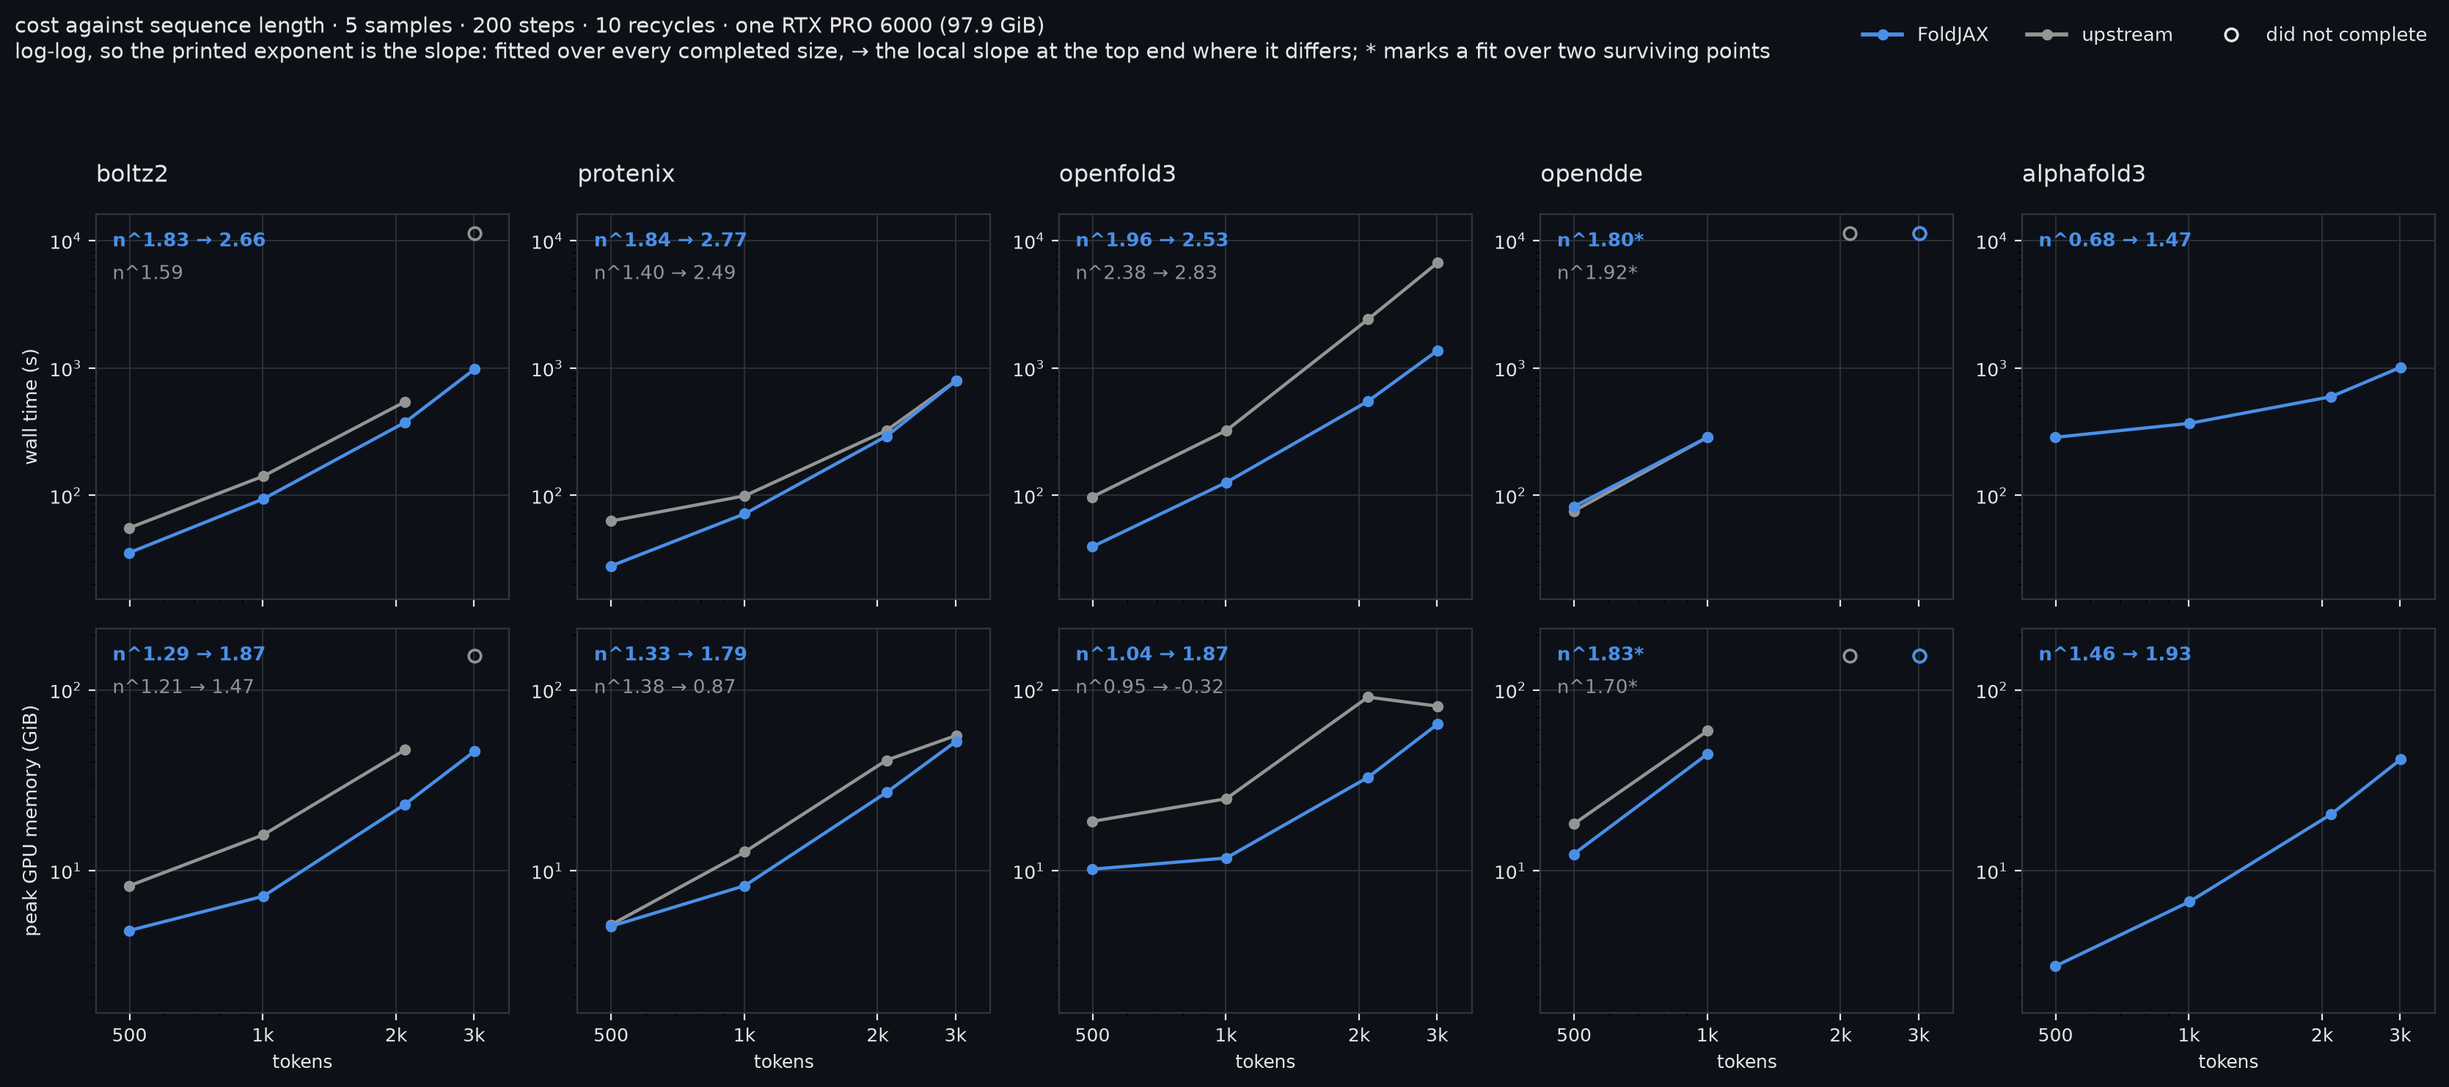
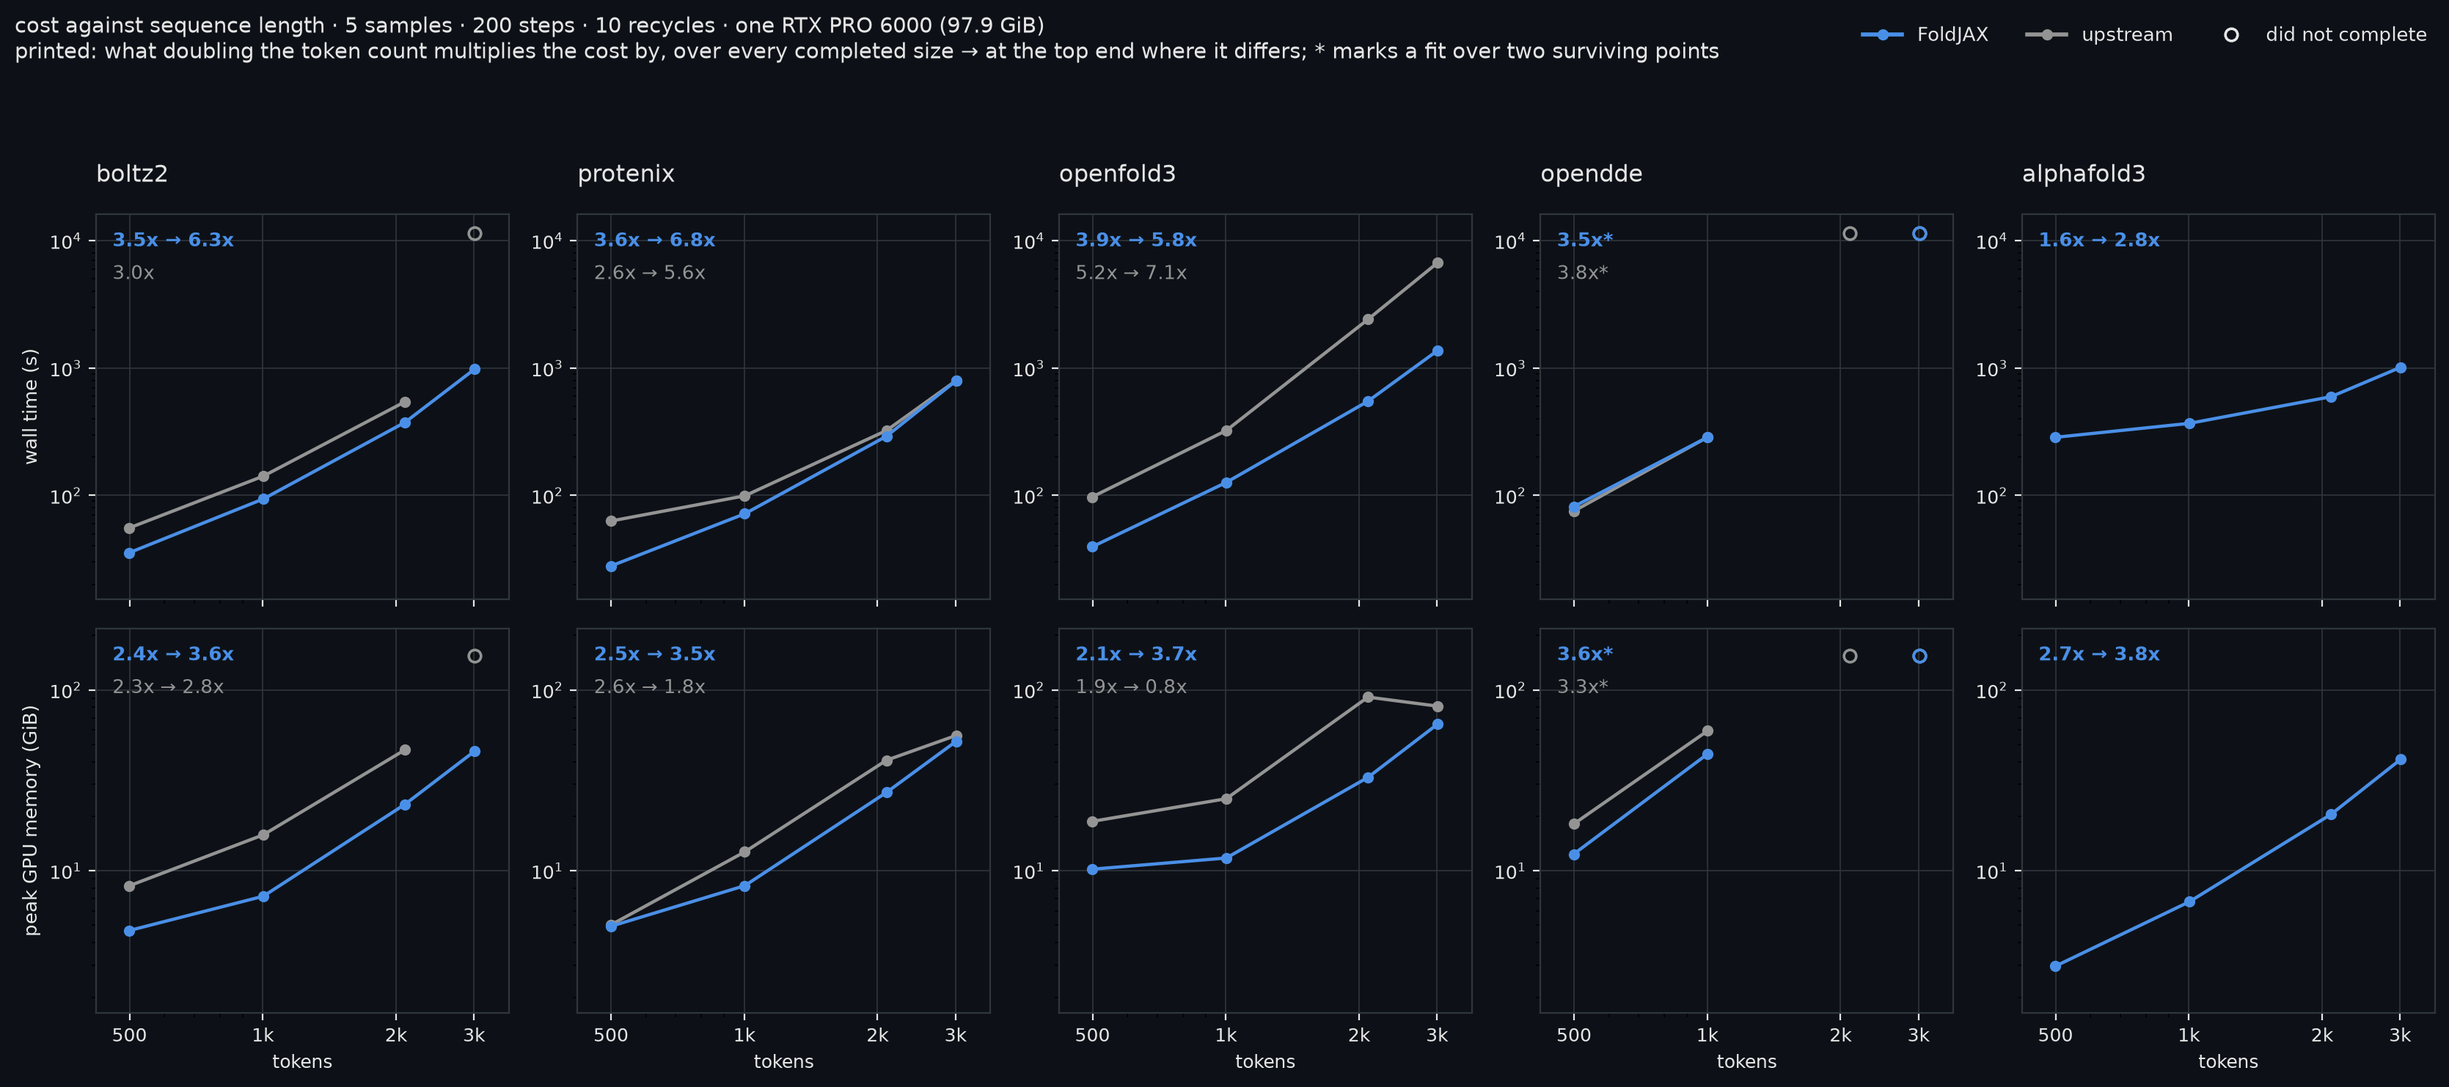
docs: the four upstreams on one axes, and cost per doubling
Two changes, both about being read rather than decoded.

`n^1.83` is replaced everywhere by what it means: 3.5x per doubling of the
token count. Same fact, in the unit the decision is made in.

And a second figure drops the FoldJAX column to put the four upstream
implementations on one pair of axes, where the question is which reference
costs what rather than how each port compares to its own. That figure pools the
earlier 132-1,531 token sweep, which the faceted one must not: those runs
measured the same unmodified upstream repositories, so their points belong on
the same curve, while FoldJAX's own code changed between the sweeps. Starting
at 132 tokens is what makes the fixed-cost floor visible -- Protenix's upstream
is the slowest of the four below ~500 tokens and the fastest above ~1,000.

Four hues on one axes clear the colour-vision gates on the adjacent pairlist,
which is the one governing line charts, but lines cross: identity is carried
three times over as hue, marker shape, and a direct label at each line's end.
The labels also supply the relief the light surface needs where aqua falls
below 3:1. Failure markers are staggered per model, since two implementations
failing at one size drew a single marker and reported one failure where there
were two.

diff --git a/docs/make_scaling_figure.py b/docs/make_scaling_figure.py
@@ -1,4 +1,15 @@
-"""How wall time and peak memory scale with token count, per model.
+"""How wall time and peak memory scale with token count.
+
+Two figures, because they answer two questions.
+
+`scaling-*.png` is one panel per model, FoldJAX against upstream, from the
+length sweep alone. `upstream-scaling-*.png` puts the four upstream
+implementations on one pair of axes, where they can be read against each other,
+and there it is safe to pool the earlier sweep's sizes as well: those runs
+measured the *same unmodified upstream repositories*, so their points belong on
+the same curve. The FoldJAX column has no such licence -- its own code changed
+between the two sweeps -- which is why the faceted figure does not pool them.
+
 
 The benchmark table answers "what did this cost" at three sizes. The question
 this figure answers is a different one -- *how fast does the cost grow* -- and
@@ -52,28 +63,63 @@ METRICS = (
     ("peak_mib", "peak GPU memory (GiB)", 1 / 1024),
 )
 
+#: One hue per upstream implementation, assigned in the palette's fixed order
+#: and never cycled. Four series on one pair of axes clear the colour-vision
+#: gates on the adjacent pairlist, which is the one that governs line charts --
+#: but lines cross, so identity is carried three times over: hue, marker shape,
+#: and a direct label at the end of every line. That also supplies the relief
+#: the light surface needs, where aqua sits below 3:1 contrast.
+UPSTREAM_COLORS = {
+    "light": {
+        "boltz2": "#2a78d6", "protenix": "#eb6834",
+        "openfold3": "#1baf7a", "opendde": "#4a3aa7",
+    },
+    "dark": {
+        "boltz2": "#3987e5", "protenix": "#d95926",
+        "openfold3": "#199e70", "opendde": "#9085e9",
+    },
+}
+MARKERS = {"boltz2": "o", "protenix": "s", "openfold3": "^", "opendde": "D"}
 
-def load(results: Path) -> dict:
+
+def load(results: list[Path]) -> dict:
     """{model: {impl: {"ok": [(tokens, wall, peak)], "failed": [tokens]}}}."""
     grouped: dict = {}
-    for path in sorted(results.glob("*.json")):
-        body = json.loads(path.read_text())
-        model, impl = body.get("model"), body.get("impl")
-        length = body.get("length")
-        if model is None or impl is None or length is None:
-            continue
-        side = grouped.setdefault(model, {}).setdefault(
-            impl, {"ok": [], "failed": []}
-        )
-        if body.get("failed") or not body.get("wall_s") or not body.get("peak_mib"):
-            side["failed"].append(length)
-        else:
-            side["ok"].append((length, body["wall_s"], body["peak_mib"]))
+    for directory in results:
+        for path in sorted(directory.glob("*.json")):
+            body = json.loads(path.read_text())
+            model, impl = body.get("model"), body.get("impl")
+            length = body.get("length")
+            if model is None or impl is None or length is None:
+                continue
+            side = grouped.setdefault(model, {}).setdefault(
+                impl, {"ok": [], "failed": []}
+            )
+            if (
+                body.get("failed")
+                or not body.get("wall_s")
+                or not body.get("peak_mib")
+            ):
+                side["failed"].append(length)
+            else:
+                side["ok"].append((length, body["wall_s"], body["peak_mib"]))
     for entry in grouped.values():
         for side in entry.values():
-            side["ok"].sort()
-            side["failed"].sort()
+            # A size measured in both sweeps keeps the later run, and a size
+            # that failed once and completed later is not a failure.
+            side["ok"] = sorted({value[0]: value for value in side["ok"]}.values())
+            completed = {value[0] for value in side["ok"]}
+            side["failed"] = sorted(set(side["failed"]) - completed)
     return grouped
+
+
+def growth(fitted: float) -> str:
+    """The exponent as what it costs to double the input.
+
+    `n^1.83` is the same fact as "2x the tokens costs 3.6x", and only one of
+    them can be read without stopping to compute it.
+    """
+    return f"{2 ** fitted:.1f}x"
 
 
 def exponent(points: list[tuple[float, float]]) -> float | None:
@@ -187,7 +233,7 @@ def render(grouped: dict, out: Path, *, theme: str) -> Path:
                 if fitted is None:
                     continue
                 caveat = "*" if len(series) == 2 else ""
-                text = f"n^{fitted:.2f}{caveat}"
+                text = f"{growth(fitted)}{caveat}"
                 # A fit over the whole range is a bad summary of a curve that
                 # bends, and these bend for a real reason: a per-run cost that
                 # does not grow with n -- weight loading, compilation -- is a
@@ -200,7 +246,7 @@ def render(grouped: dict, out: Path, *, theme: str) -> Path:
                 # which.
                 local = exponent(series[-2:])
                 if local is not None and abs(local - fitted) > 0.25:
-                    text += f" → {local:.2f}"
+                    text += f" → {growth(local)}"
                 axis.text(
                     0.04, 0.955 - offset, text,
                     transform=axis.transAxes, color=COLORS[theme][impl],
@@ -226,8 +272,8 @@ def render(grouped: dict, out: Path, *, theme: str) -> Path:
     figure.suptitle(
         "cost against sequence length · 5 samples · 200 steps · 10 recycles · "
         "one RTX PRO 6000 (97.9 GiB)\n"
-        "log-log, so the printed exponent is the slope: fitted over every "
-        "completed size, → the local slope at the top end where it differs; "
+        "printed: what doubling the token count multiplies the cost by, over "
+        "every completed size → at the top end where it differs; "
         "* marks a fit over two surviving points",
         color=fg, fontsize=10.5, x=0.006, ha="left", va="top", y=0.995,
     )
@@ -238,14 +284,122 @@ def render(grouped: dict, out: Path, *, theme: str) -> Path:
     return out
 
 
+def render_upstream(grouped: dict, out: Path, *, theme: str) -> Path:
+    """The four upstream implementations against each other, on one axes."""
+    import matplotlib
+
+    matplotlib.use("Agg")
+    import matplotlib.pyplot as plt
+
+    style = THEMES[theme]
+    fg, bg, grid = style["fg"], style["bg"], style["grid"]
+    palette = UPSTREAM_COLORS[theme]
+    models = [name for name in MODELS if name in palette and name in grouped]
+
+    figure, axes = plt.subplots(
+        1, len(METRICS), figsize=(13.5, 5.6), dpi=200, facecolor=bg, squeeze=False
+    )
+
+    for column, (metric, ylabel, scale) in enumerate(METRICS):
+        axis = axes[0][column]
+        axis.set_facecolor(bg)
+        top = 1.0
+        for model in models:
+            side = grouped[model].get("upstream")
+            if side is None:
+                continue
+            color = palette[model]
+            index = 1 if metric == "wall_s" else 2
+            points = [(value[0], value[index] * scale) for value in side["ok"]]
+            if not points:
+                continue
+            top = max(top, max(y for _, y in points))
+            axis.plot(
+                [x for x, _ in points], [y for _, y in points], color=color,
+                linewidth=1.8, marker=MARKERS[model], markersize=5, zorder=3,
+            )
+            fitted = exponent([(value[0], value[index]) for value in side["ok"]])
+            # The label at the line's end, not a legend: four lines that cross
+            # cannot be traced back to a box in the corner, and this is also
+            # the relief the light surface needs where a hue falls below 3:1.
+            tail = f"  {model}" + (f"  {growth(fitted)}" if fitted else "")
+            axis.annotate(
+                tail, xy=points[-1], xytext=(6, 0),
+                textcoords="offset points", color=color, fontsize=9.5,
+                va="center", ha="left", zorder=5, fontweight="bold",
+            )
+        for index, model in enumerate(models):
+            side = grouped[model].get("upstream")
+            for tokens in (side or {}).get("failed", []):
+                # Staggered by model: two implementations failing at the same
+                # size would otherwise draw one marker on top of another, and
+                # the figure would report one failure where there were two.
+                axis.plot(
+                    [tokens], [top * (1.55 + 0.30 * index)], marker=MARKERS[model],
+                    markersize=6.5, markerfacecolor="none",
+                    markeredgecolor=palette[model], markeredgewidth=1.4,
+                    zorder=4, clip_on=False,
+                )
+
+        axis.set_xscale("log")
+        axis.set_yscale("log")
+        axis.set_xlim(115, 9000)
+        axis.set_ylim(None, top * 2.6)
+        axis.set_xticks([132, 250, 500, 1000, 2000, 3000])
+        axis.set_xticklabels(["132", "250", "500", "1k", "2k", "3k"])
+        axis.xaxis.set_minor_formatter(matplotlib.ticker.NullFormatter())
+        axis.set_xlabel("tokens", color=fg, fontsize=9.5)
+        axis.set_ylabel(ylabel, color=fg, fontsize=9.5)
+        axis.grid(color=grid, linewidth=0.6, zorder=0)
+        axis.tick_params(colors=fg, labelsize=9)
+        for spine in axis.spines.values():
+            spine.set_color(grid)
+        if metric == "peak_mib":
+            axis.axhline(97.9, color=fg, linewidth=0.9, linestyle="--", zorder=1)
+            axis.text(
+                130, 101, "97.9 GiB card", color=fg, fontsize=8.5, va="bottom",
+            )
+
+    figure.suptitle(
+        "upstream implementations against each other · 5 samples · 200 steps · "
+        "10 recycles · one RTX PRO 6000\n"
+        "log-log. After each name: what doubling the token count multiplies "
+        "that cost by — averaged over the whole plotted range, and every curve "
+        "is steeper than that at its top end.\n"
+        "Hollow markers reached a size and did not finish it. Each point is a "
+        "different sequence, so the near-equal pairs (490/499, 970/1,003) show "
+        "the spread between sequences of one length.",
+        color=fg, fontsize=10.5, x=0.006, ha="left", va="top", y=0.995,
+    )
+    figure.tight_layout(rect=(0, 0, 1, 0.875))
+    out.parent.mkdir(parents=True, exist_ok=True)
+    figure.savefig(out, facecolor=bg, bbox_inches="tight")
+    plt.close(figure)
+    return out
+
+
 def main() -> int:
     parser = argparse.ArgumentParser(description=__doc__)
-    parser.add_argument("--results", type=Path, required=True)
+    parser.add_argument(
+        "--results", type=Path, nargs="+", required=True,
+        help="the length sweep; both figures read it",
+    )
+    parser.add_argument(
+        "--upstream-extra", type=Path, nargs="*", default=[],
+        help="further result directories, pooled into the upstream-only figure "
+        "only. Safe there and not in the faceted one: these runs measured the "
+        "same unmodified upstream repositories, while FoldJAX's own code "
+        "changed between sweeps.",
+    )
     args = parser.parse_args()
-    grouped = load(args.results)
     here = Path(__file__).parent
+    faceted = load(args.results)
+    pooled = load([*args.results, *args.upstream_extra])
     for theme in THEMES:
-        print(render(grouped, here / f"scaling-{theme}.png", theme=theme))
+        print(render(faceted, here / f"scaling-{theme}.png", theme=theme))
+        print(render_upstream(
+            pooled, here / f"upstream-scaling-{theme}.png", theme=theme
+        ))
     return 0
 
 

diff --git a/docs/benchmark.md b/docs/benchmark.md
@@ -62,36 +62,68 @@ is a slope, not a number.
   <img alt="wall time and peak memory against token count, log-log, one panel per model" src="scaling-dark.png">
 </picture>
 
-Both axes are logarithmic, so a power law is a straight line and the printed
-exponent is its slope. Two are printed where they disagree: the fit over every
-completed size, and the local slope between the two largest. They disagree
-because a per-run cost that does not grow with `n` -- weight loading, XLA
-compilation -- is a constant added to a power law, and it flattens the fitted
-slope at the small end.
+Both axes are logarithmic, so a power law is a straight line. The figure
+printed against each series is what **doubling the token count multiplies that
+cost by** -- the same fact as an exponent, in the unit the decision is actually
+made in. Two are printed where they disagree: over every completed size, then
+at the top end.
 
-- **Nothing here is quadratic across the whole range, and everything is
-  steeper than quadratic at the top.** FoldJAX time fits n^1.8-2.0 over
-  499-3,012 tokens but runs n^2.5-2.8 between 2,096 and 3,012. Extrapolating a
-  small-size measurement to a large sequence underestimates it, in every column.
-- **AlphaFold 3's n^0.68 is the clearest case of that constant.** Its 285 s at
-  499 tokens is mostly fixed cost, which is why its fitted slope is the
-  flattest here and its local slope (n^1.47) more than doubles it. It is not
-  scaling better than the ports; it is starting from a bigger floor.
-- **Memory grows slower than time, roughly n^1.0-1.8, and that is what runs
-  out first anyway.** OpenDDE is the exception and it is the one that fails
-  earliest: n^1.83 on two surviving points, 45.4 GiB already at 1,003 tokens.
+They disagree because a per-run cost that does not grow with `n` -- weight
+loading, XLA compilation -- is a constant added to a power law, and it flattens
+the average at the small end.
+
+- **Nothing here doubles cheaply, and everything gets worse as it grows.**
+  FoldJAX time multiplies 3.5-3.9x per doubling across 499-3,012 tokens, but
+  5.8-6.8x between 2,096 and 3,012. Extrapolating a small-size measurement to a
+  large sequence underestimates it, in every column.
+- **AlphaFold 3's 1.6x per doubling is the clearest case of that constant.**
+  Its 285 s at 499 tokens is mostly fixed cost, which is why its average is the
+  flattest here while its top end (2.8x) nearly doubles it. It is not scaling
+  better than the ports; it is starting from a bigger floor.
+- **Memory grows slower than time -- about 2.1-2.7x per doubling -- and it is
+  what runs out first anyway.** OpenDDE is the exception and fails earliest:
+  3.6x per doubling on two surviving points, 45.4 GiB already at 1,003 tokens.
 - **OpenFold3 upstream's memory falls from 93.4 GiB at 2,096 tokens to 83.2 at
-  3,012** -- a negative local slope, drawn as measured. A peak that drops as
-  the input grows is a size-triggered path change, not a saving; it is
-  unexplained here and should not be read as one until someone reads that
-  code.
+  3,012** -- drawn as measured. A peak that drops as the input grows is a
+  size-triggered path change, not a saving; it is unexplained here and should
+  not be read as one until someone reads that code.
 
 Hollow markers are sizes a run reached and did not finish. They are drawn
 rather than dropped: omitting them would bend a curve into a claim that the
 model kept scaling.
 
+### The four upstreams against each other
+
+<picture>
+  <source media="(prefers-color-scheme: dark)" srcset="upstream-scaling-dark.png">
+  <source media="(prefers-color-scheme: light)" srcset="upstream-scaling-light.png">
+  <img alt="wall time and peak memory against token count for the four upstream implementations" src="upstream-scaling-dark.png">
+</picture>
+
+The same measurements with the FoldJAX column dropped and the four upstreams on
+one pair of axes, where the question is which reference implementation costs
+what. This figure pools the earlier 132-1,531 token sweep as well, which the
+faceted one does not: those runs measured the *same unmodified upstream
+repositories*, so their points belong on the same curve, while FoldJAX's own
+code changed between the two sweeps and its points would not.
+
+Each point is a different sequence, so the near-equal pairs (490/499,
+970/1,003) are not repeats -- they show how much two sequences of one length
+can differ, which is the noise floor for reading any single point.
+
+- **OpenFold3's upstream is the steepest thing here, 5.2x per doubling**, and
+  its caveat is below: it reaches no fused kernel on this card and chunks
+  attention four rows at a time at every size.
+- **Protenix's upstream has the flattest curve (1.8x) and the highest floor** --
+  52 s at 132 tokens, where OpenDDE's takes 17. Below ~500 tokens it is the
+  slowest of the four and above ~1,000 it is the fastest.
+- **OpenDDE's upstream stops at 1,003 tokens.** Everything past it is hollow.
+
+<!-- -->
+
     uv run --with matplotlib python docs/make_scaling_figure.py \
-        --results ../foldjax-bench/results-lengths
+        --results ../foldjax-bench/results-lengths \
+        --upstream-extra bench/results
 
 ## What the table says
 
